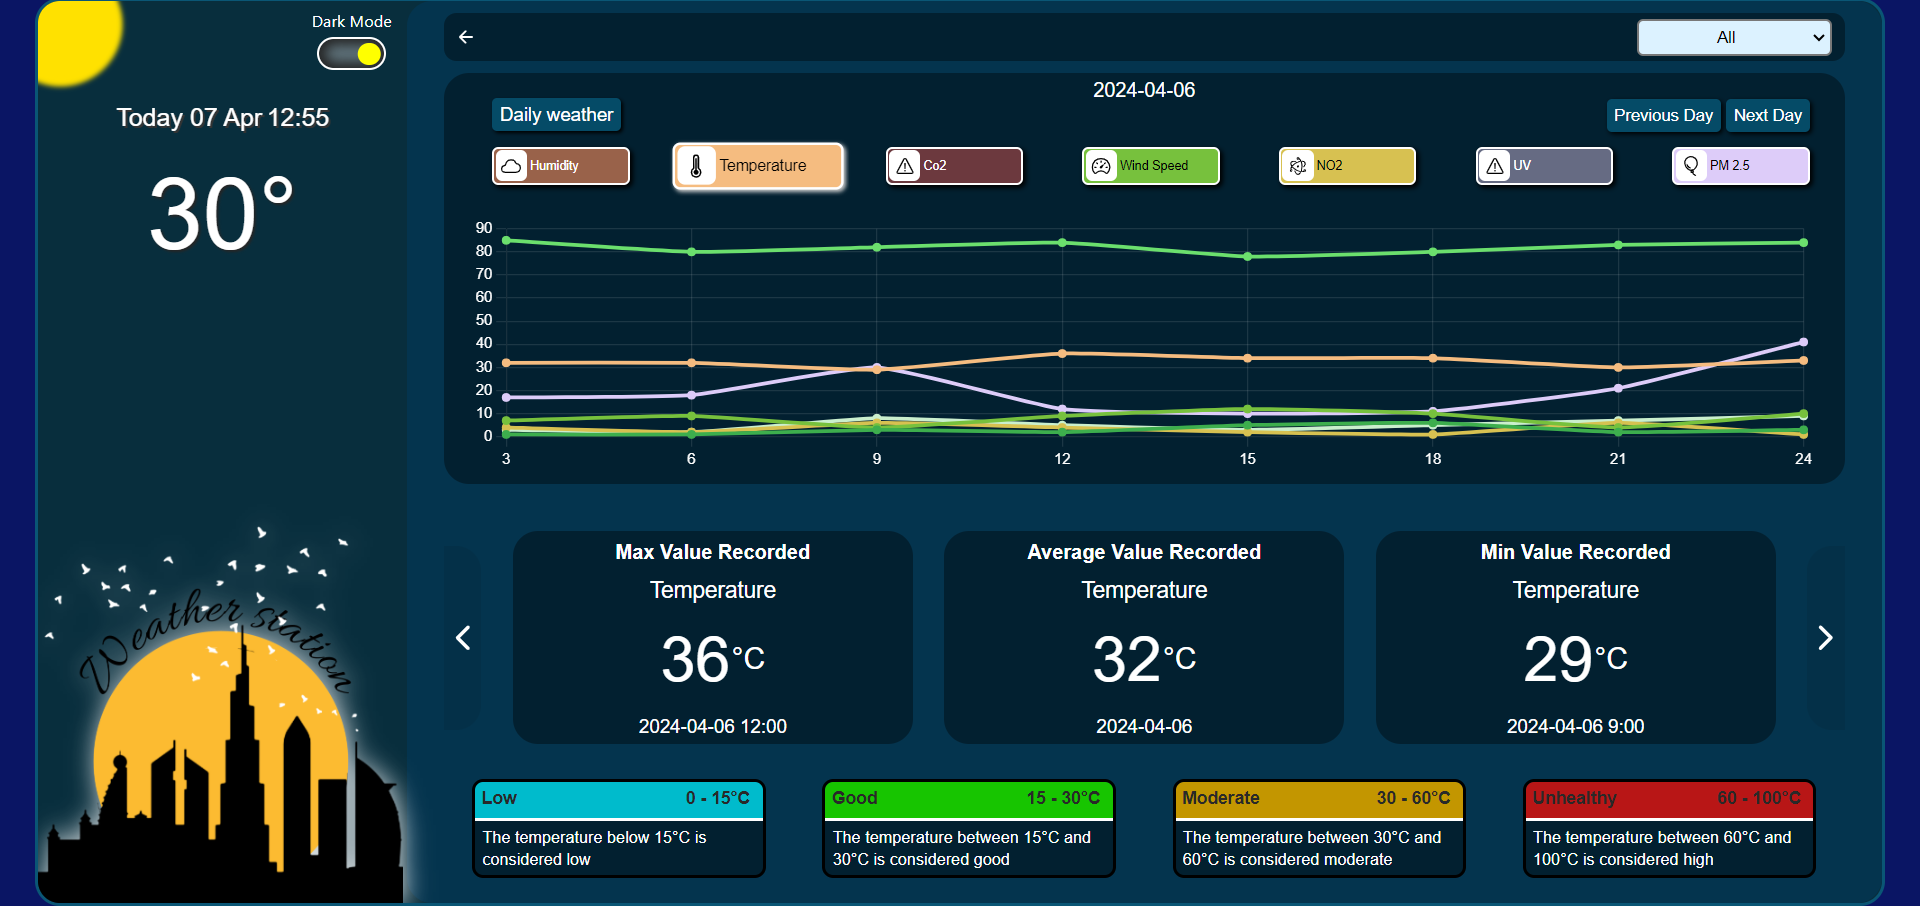
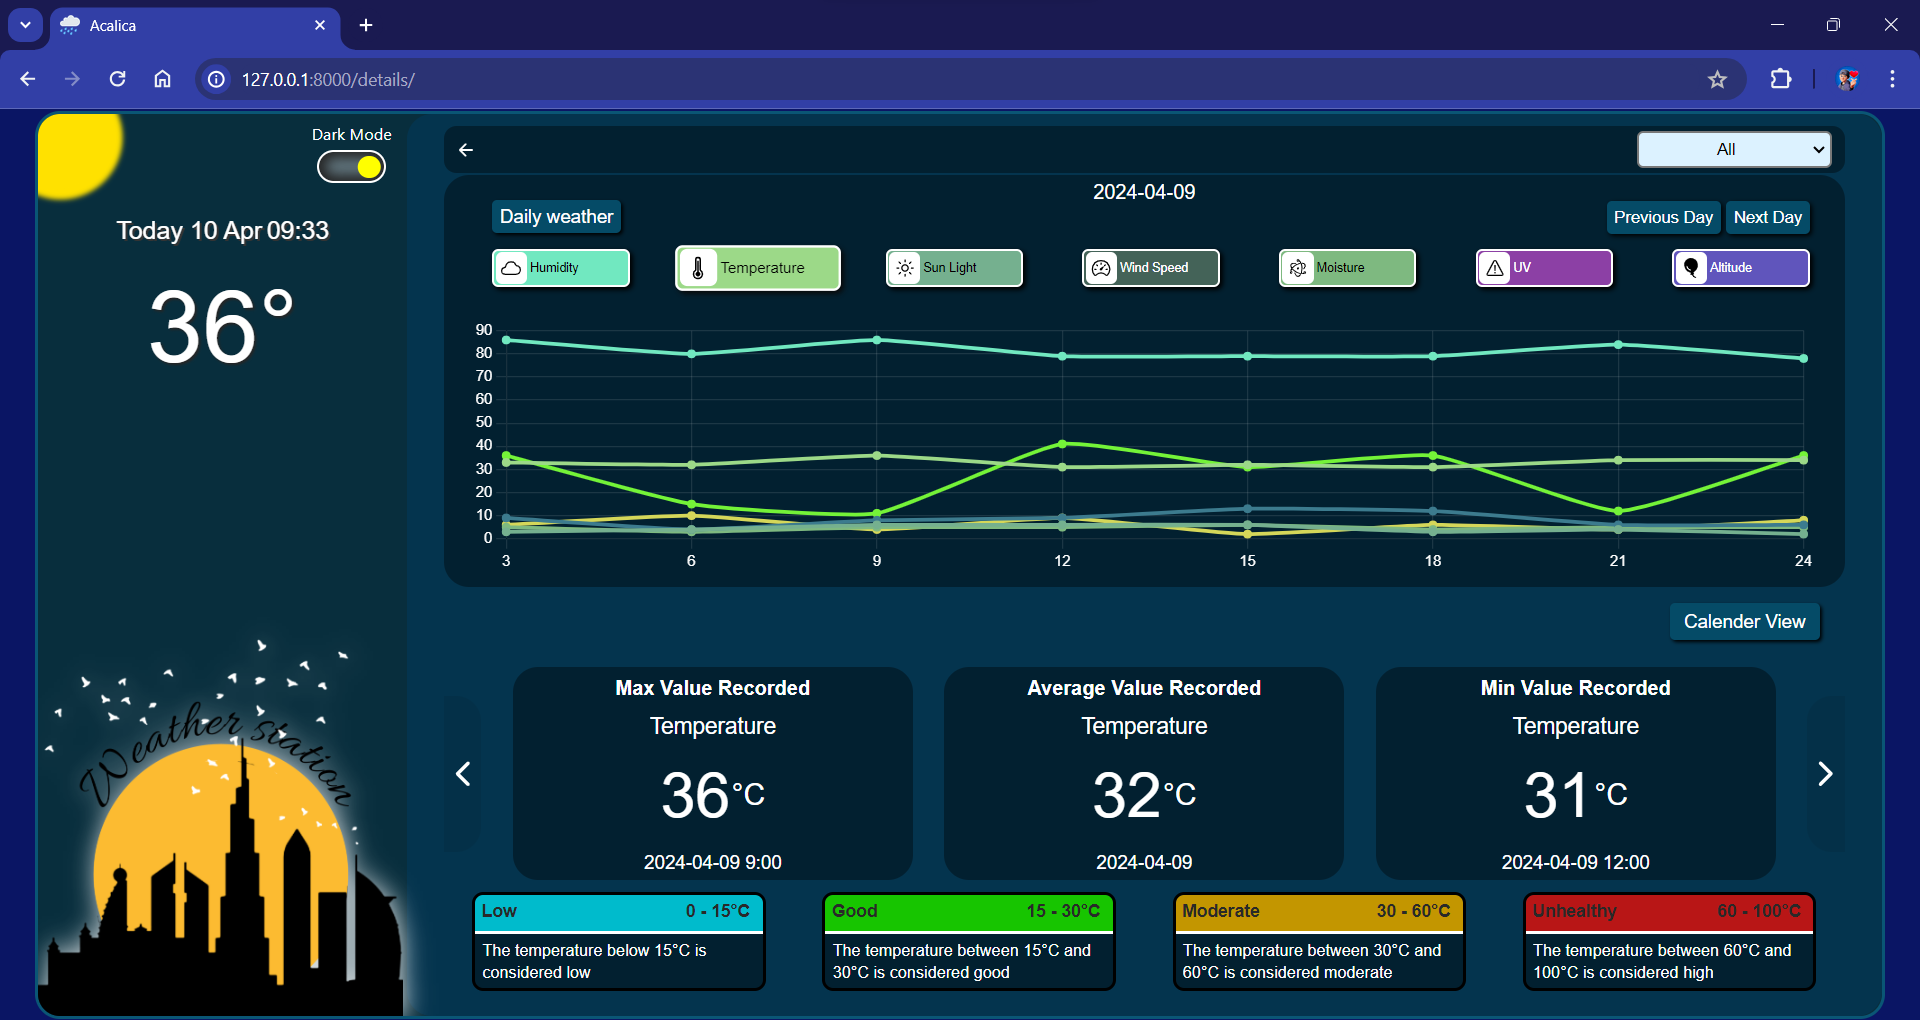
New Calender page added

diff --git a/Python/Device_values.py b/Python/Device_values.py
@@ -54,7 +54,7 @@ time=[0,3,6,9,12,15,18,21,23]
 
 
 datefrom=1
-dateto=30
+dateto=10
 month=4
 
 day=datefrom
